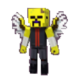
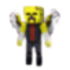
Adjusts and add a Enemy

Changed region(s): [[0.1143, 0.0571, 0.8857, 0.9714]]

diff --git a/code/Const.py b/code/Const.py
@@ -31,10 +31,10 @@ ENTITY_SPEED = {
     'Player2Shot': 2,
     'Enemy1' : 1,
     'Enemy1Shot': 5,
-    'Enemy2' : 1 ,
-    'Enemy2Shot': 2,
-    'Enemy3': 1.5,
-    'Enemy3Shot': 3
+    'Enemy2' : 1.5 ,
+    'Enemy2Shot': 3,
+    'Enemy3': 1,
+    'Enemy3Shot': 2
 }
 
 ENTITY_HEALTH = {
@@ -54,20 +54,20 @@ ENTITY_HEALTH = {
     'Player1Shot' : 1,
     'Player2'   : 300,
     'Player2Shot' : 1,
-    'Enemy1'    : 50,
+    'Enemy1'    : 60,
     'Enemy1Shot': 1,
-    'Enemy2'    : 60,
+    'Enemy2'    : 75,
     'Enemy2Shot' : 1,
-    'Enemy3': 80,
+    'Enemy3': 65,
     'Enemy3Shot': 2
 }
 
 ENTITY_SHOT_DELAY = {
-    'Player1'   : 20,
+    'Player1'   : 18,
     'Player2'   : 15,
     'Enemy1': 100,
-    'Enemy2': 150,
-    'Enemy3': 170
+    'Enemy2': 170,
+    'Enemy3': 150
 }
 
 ENTITY_DAMAGE = {
@@ -88,11 +88,11 @@ ENTITY_DAMAGE = {
     'Player2': 1,
     'Player2Shot': 20,
     'Enemy1': 1,
-    'Enemy1Shot': 20,
+    'Enemy1Shot': 15,
     'Enemy2': 1,
-    'Enemy2Shot': 15,
+    'Enemy2Shot': 25,
     'Enemy3': 1,
-    'Enemy3Shot': 25
+    'Enemy3Shot': 20
 }
 
 ENTITY_SCORE = {
@@ -114,9 +114,9 @@ ENTITY_SCORE = {
     'Player2Shot': 0,
     'Enemy1': 100,
     'Enemy1Shot': 0,
-    'Enemy2': 125,
+    'Enemy2': 155,
     'Enemy2Shot': 0,
-    'Enemy3': 150,
+    'Enemy3': 130,
     'Enemy3Shot': 0
 }
 
@@ -140,7 +140,7 @@ PLAYER_KEY_SHOT = { 'Player1': pygame.K_RCTRL,
                     'Player2': pygame.K_LCTRL}
 
 #S
-SPAW_TIME = 1200 #2500
+SPAW_TIME = 1400
 
 #T
 TIMEOUT_STEP = 100

diff --git a/code/Level.py b/code/Level.py
@@ -58,7 +58,7 @@ class Level:
                     pygame.quit()
                     sys.exit()
                 if event.type == EVENT_ENEMY:
-                    choice  = random.choice(('Enemy1','Enemy2'))
+                    choice  = random.choice(('Enemy1','Enemy2','Enemy3'))
                     self.entity_list.append(EntityFactory.get_entity(choice))
                 if event.type == EVENT_TIMEOUT:
                     self.timeout -= TIMEOUT_STEP

diff --git a/code/EntityFactory.py b/code/EntityFactory.py
@@ -33,3 +33,5 @@ class EntityFactory:
                 return Enemy('Enemy1', (WIN_WIDTH + 10, random.randint(30, WIN_HEIGHT - 60)))
             case 'Enemy2':
                 return Enemy('Enemy2', (WIN_WIDTH + 10, random.randint(30, WIN_HEIGHT - 60)))
+            case 'Enemy3':
+                return Enemy('Enemy3', (WIN_WIDTH + 10, random.randint(30, WIN_HEIGHT - 60)))
